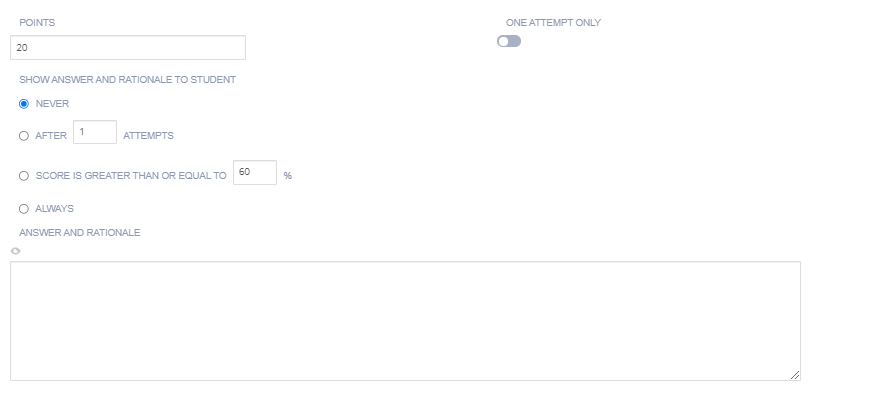
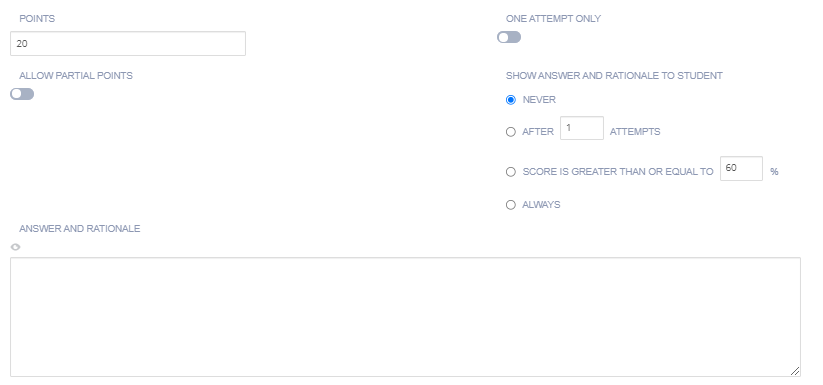
changelog #12788

diff --git a/source/instructors/authoring/assessments/advanced-code-test.rst b/source/instructors/authoring/assessments/advanced-code-test.rst
@@ -40,7 +40,7 @@ Complete each section to set up your advanced code test.
       :alt: Grading
 
   - **Points** - The score given to the student if the code test passes. You can enter any positive numeric value. If this assessment should not be graded, enter 0 points.
-
+  - **Allow Partial Points** - Toggle to enable a percentage of total points to be given based on the percentage correctly answered. See :ref:`Allow Partial Points <partial-points>` for more information.
   - **One Attempt Only** - Toggle to enable the assessment to run only once. The student will be warned that they cannot resubmit the assessment. It's recommended that you provide a :ref:`Run Button <customizable-run-menu>` for the student to test the code before running the actual assessment.
   - **Show Answer and Rationale to Students** - Toggle to display the answer, and the rationale for the answer, to the student. This guidance information will be shown to students after they have submitted their answer and any time they view the assignment after marking it as completed. You can set when to show this selecting from **Mever**, **After x attempts**, **If score is greater than or equal to a % of the total** or **Always**
   - **Answer and Rationale** - Enter guidance for the assessment. This is always visible to the teacher when the project is opened in the course or when opening the student's project. 
